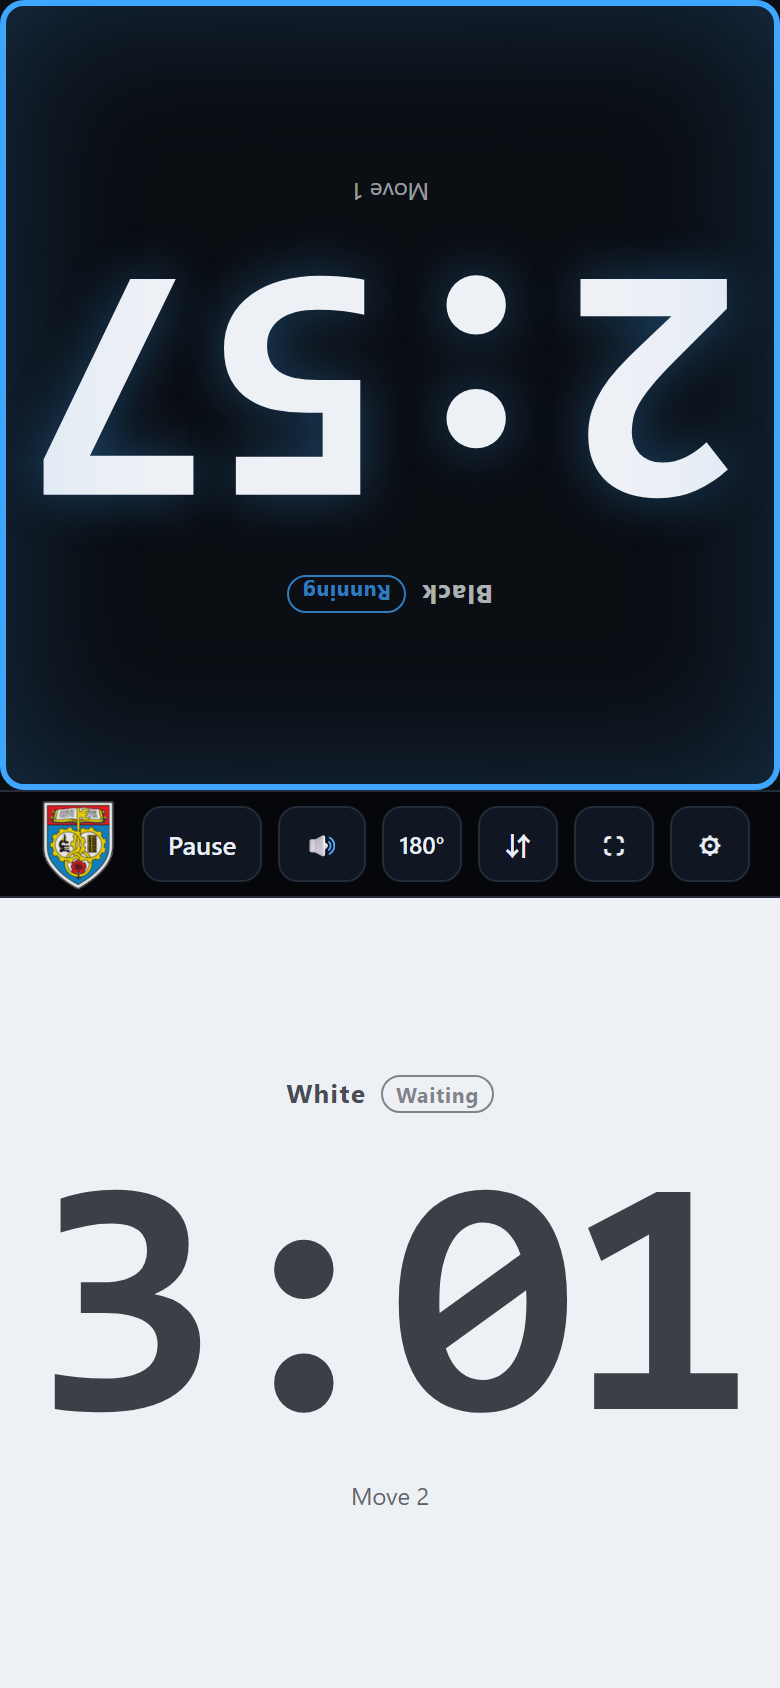
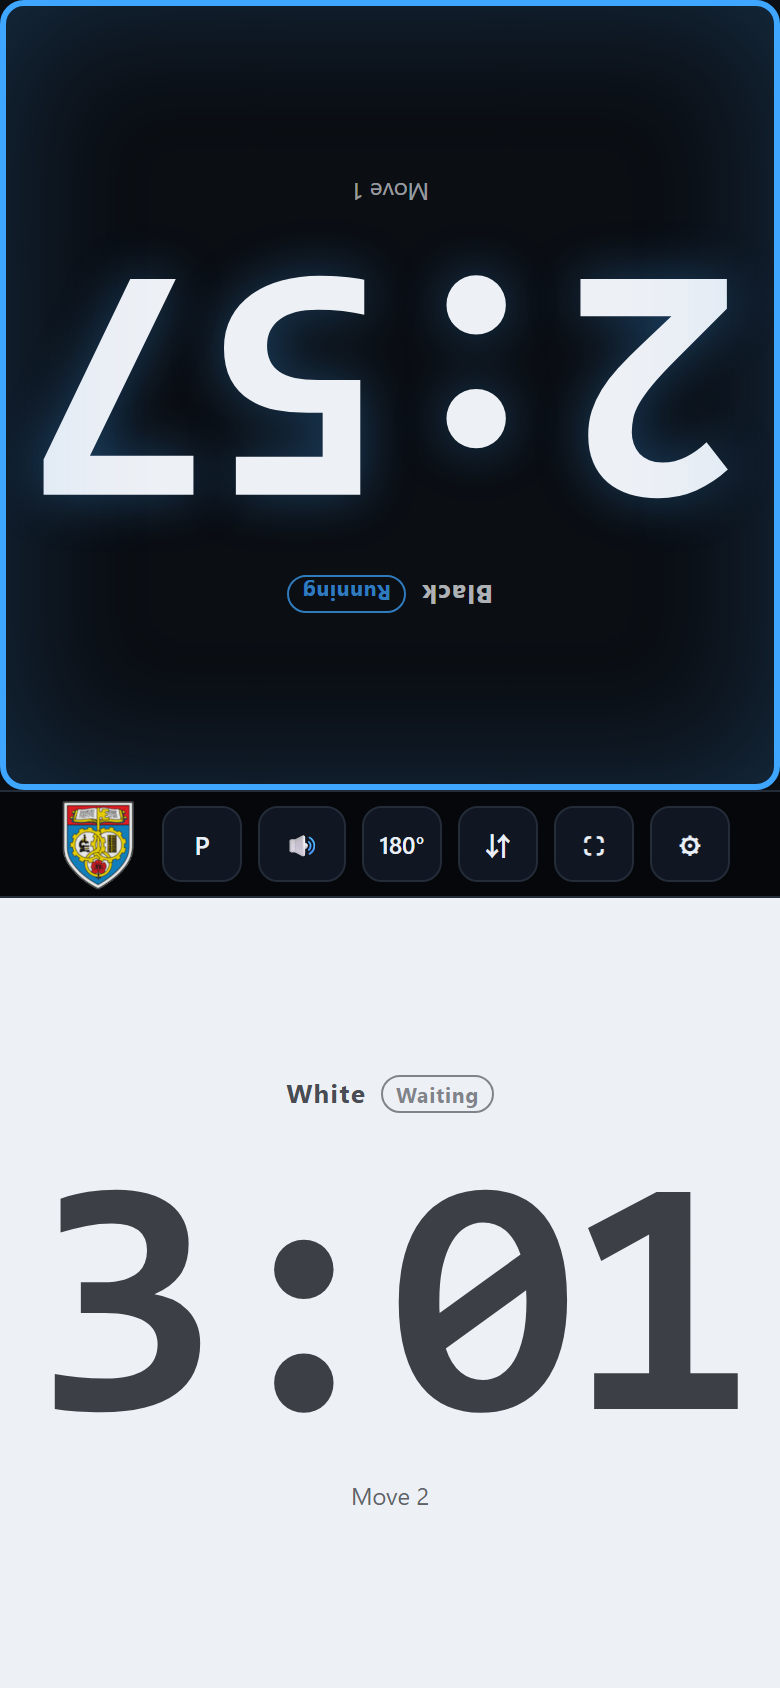
Sync: 停/续 · P/C pause labels, READMEs and screenshots

diff --git a/i18n.js b/i18n.js
@@ -3,7 +3,8 @@
  * ==================================================================
  * 用法：
  *     var t = window.ChessClockI18N.make('en');   // 或 'zh'
- *     t('clock.pause')                 → "Pause"
+ *     t('clock.pause')                 → "P"（按钮上只写一个字，title / aria-label 用
+ *                                        clock.pause.title「Pause」把含义说全）
  *     t('moves.n', { n: 3 })           → "Move 3"
  *
  * 约定：
@@ -80,8 +81,11 @@
       'pane.w.aria': '白方按键（走完棋按这里）',
       'pane.b.aria': '黑方按键（走完棋按这里）',
       'strip.aria': '棋钟操作',
-      'clock.resume': '继续',
-      'clock.pause': '暂停',
+      // 按钮上只写一个字（停 / 续），完整含义放在 .title 里给悬停提示与读屏软件用
+      'clock.resume': '续',
+      'clock.pause': '停',
+      'clock.pause.title': '暂停',
+      'clock.resume.title': '继续',
       'clock.sound.on': '打开声音',
       'clock.sound.off': '关闭声音',
       'clock.facing.title': '对坐模式开关',
@@ -175,8 +179,11 @@
       'pane.w.aria': 'White button (tap here after your move)',
       'pane.b.aria': 'Black button (tap here after your move)',
       'strip.aria': 'Clock controls',
-      'clock.resume': 'Resume',
-      'clock.pause': 'Pause',
+      // the button shows one character (P / C); the .title keys spell it out
+      'clock.resume': 'C',
+      'clock.pause': 'P',
+      'clock.pause.title': 'Pause',
+      'clock.resume.title': 'Resume',
       'clock.sound.on': 'Turn sound on',
       'clock.sound.off': 'Turn sound off',
       'clock.facing.title': 'Facing mode',

diff --git a/index.html b/index.html
@@ -149,8 +149,9 @@
 
     <div class="strip" role="toolbar" aria-label="Clock controls" data-i18n-aria-label="strip.aria">
       <img class="strip-logo" src="assets/logo-strip.png" alt="" width="48" height="48">
-      <!-- 暂停 / 继续：开局靠拍面板（拍对侧 → 自己的钟开始走），所以未开表时这颗按钮是隐藏的 -->
-      <button type="button" class="icon-btn" id="btnToggle" hidden><span id="btnToggleLabel" data-i18n="clock.pause">Pause</span></button>
+      <!-- 暂停 / 继续：开局靠拍面板（拍对侧 → 自己的钟开始走），所以未开表时这颗按钮是隐藏的；
+           按钮上只写一个字（停 / 续、P / C），完整含义交给 title / aria-label -->
+      <button type="button" class="icon-btn" id="btnToggle" hidden><span id="btnToggleLabel" data-i18n="clock.pause">P</span></button>
       <button type="button" class="icon-btn" id="btnSound" title="Turn sound off" aria-pressed="true" data-i18n-title="clock.sound.off">🔊</button>
       <!-- 180°：对坐模式开关，把「对面」那块面板整体转 180°（只影响数字朝向） -->
       <button type="button" class="icon-btn" id="btnRotate" title="Facing mode" data-i18n-title="clock.facing.title">180°</button>

diff --git a/app.js b/app.js
@@ -672,6 +672,7 @@
   /**
    * 中间那颗按钮**只有「暂停 / 继续」**：开局靠拍面板（拍对侧 → 自己开始计时），
    * 所以未开表时整颗隐藏，一局结束（结果覆盖层已出来）时也隐藏。
+   * 可见文案只写一个字（停 / 续、P / C），完整含义由 title / aria-label 说全。
    */
   function updateToggleButton() {
     var btn = $('#btnToggle');
@@ -681,7 +682,10 @@
     if (!live) { return; }
     var paused = !!S.paused;
     btn.classList.toggle('primary', paused);
+    var spelled = paused ? t('clock.resume.title') : t('clock.pause.title');
     $('#btnToggleLabel').textContent = paused ? t('clock.resume') : t('clock.pause');
+    btn.setAttribute('title', spelled);
+    btn.setAttribute('aria-label', spelled);
   }
 
   /* ================= 计时循环 ================= */

diff --git a/README.md b/README.md
@@ -117,14 +117,15 @@ The whole folder is static: drop it on any static host, **no backend, no databas
 4. When a side reaches zero: the clock stops at once, the alarm sounds, the phone vibrates and a result overlay
    appears (“… ran out of time / … wins”).
    → “Rematch (swap colours)” or “Back to setup”.
-5. To stop the clock temporarily (notation, settling a dispute): tap “Pause”, then “Resume”. That button only
+5. To stop the clock temporarily (notation, settling a dispute): tap “P”, then “C” (the button shows a single
+   letter — the tooltip spells out “Pause” / “Resume”, as does the screen reader). That button only
    appears once the clock is running.
 
 ### The middle toolbar
 
 | Button | What it does |
 | --- | --- |
-| Pause / Resume | Only shown while a game is running; **no Start button** — the clock is started by tapping a panel |
+| `P` / `C` | Pause / resume; labelled with a single letter, the tooltip (and the screen reader) says “Pause” / “Resume”. Only shown while a game is running; **no Start button** — the clock is started by tapping a panel |
 | 🔊 / 🔇 | Sound switch (move beep + time-up alarm) |
 | 180° | Facing mode: rotate the far panel 180° so the player sitting opposite reads it upright (see section 5) |
 | ⇵ | Swap sides: swap which screen position each colour occupies — Black top / White bottom ⇄ White top / Black bottom in portrait, Black left / White right ⇄ White left / Black right in landscape (see section 5) |
@@ -234,7 +235,7 @@ Lay the phone flat between the two players, screen up:
    ┌───────────────────────┐
    │    ███ Black 2:57     │  ← the top panel is rotated 180°, upright for the far side
    ├───────────────────────┤
-   │ ▣ 180° ⇵ Pause 🔊 ⛶ ⚙ │  ← toolbar: logo on the left, reachable from both sides
+   │ ▣ 180° ⇵ P 🔊 ⛶ ⚙     │  ← toolbar: logo on the left, reachable from both sides
    ├───────────────────────┤
    │    White 3:01 ███     │  ← the bottom panel is not rotated, upright for the near side
    └───────────────────────┘

diff --git a/README_CN.md b/README_CN.md
@@ -103,13 +103,13 @@ node serve.js            # 默认 8080 端口；也可 PORT=8081 node serve.js
 3. 谁走完棋，就**拍自己那一侧的整块面板**，时间立刻交给对方。
 4. 一方时间归零：立即停表、响警报、震动，弹出结果（"某某 超时 / 某某 获胜"）。
    → 「再来一局（交换先后手）」或「返回设置」。
-5. 需要临时停表（记谱、处理争议）：点「暂停」，再点「继续」。这颗按钮只在开表之后才出现。
+5. 需要临时停表（记谱、处理争议）：点「停」，再点「续」（按钮上只写一个字，悬停提示与读屏软件念的是完整的「暂停 / 继续」）。这颗按钮只在开表之后才出现。
 
 ### 中间的操做条
 
 | 按钮 | 作用 |
 | --- | --- |
-| 暂停 / 继续 | 只在对局进行中出现；**没有「开始」按钮** —— 开表靠拍面板 |
+| `停` / `续` | 暂停 / 继续；按钮上只写一个字，悬停提示（及读屏软件）会写全「暂停 / 继续」。只在对局进行中出现；**没有「开始」按钮** —— 开表靠拍面板 |
 | 🔊 / 🔇 | 声音开关（走子音 + 超时警报） |
 | 180° | 对坐模式：把对面那块面板整体旋转 180°，让坐在对面的选手读正（见第五节） |
 | ⇵ | 交换两侧位置：双方在屏幕上换半边 —— 竖屏「黑上白下 ⇄ 白上黑下」，横屏「黑左白右 ⇄ 白左黑右」（见第五节） |
@@ -208,7 +208,7 @@ Byoyomi 模式，而且**首次打开就是这套默认值**（英文 + Byoyomi 
    ┌───────────────────────┐
    │    ███ 黑方 2:57      │  ← 上方面板内容旋转 180°，对面看是正的
    ├───────────────────────┤
-   │  ▣ 180° ⇵ 暂停 🔊 ⛶ ⚙ │  ← 操作条：最左边是 logo，左右两侧都够得着
+   │  ▣ 180° ⇵ 停 🔊 ⛶ ⚙   │  ← 操作条：最左边是 logo，左右两侧都够得着
    ├───────────────────────┤
    │    白方 3:01 ███      │  ← 下方面板不旋转，近侧选手看是正的
    └───────────────────────┘
